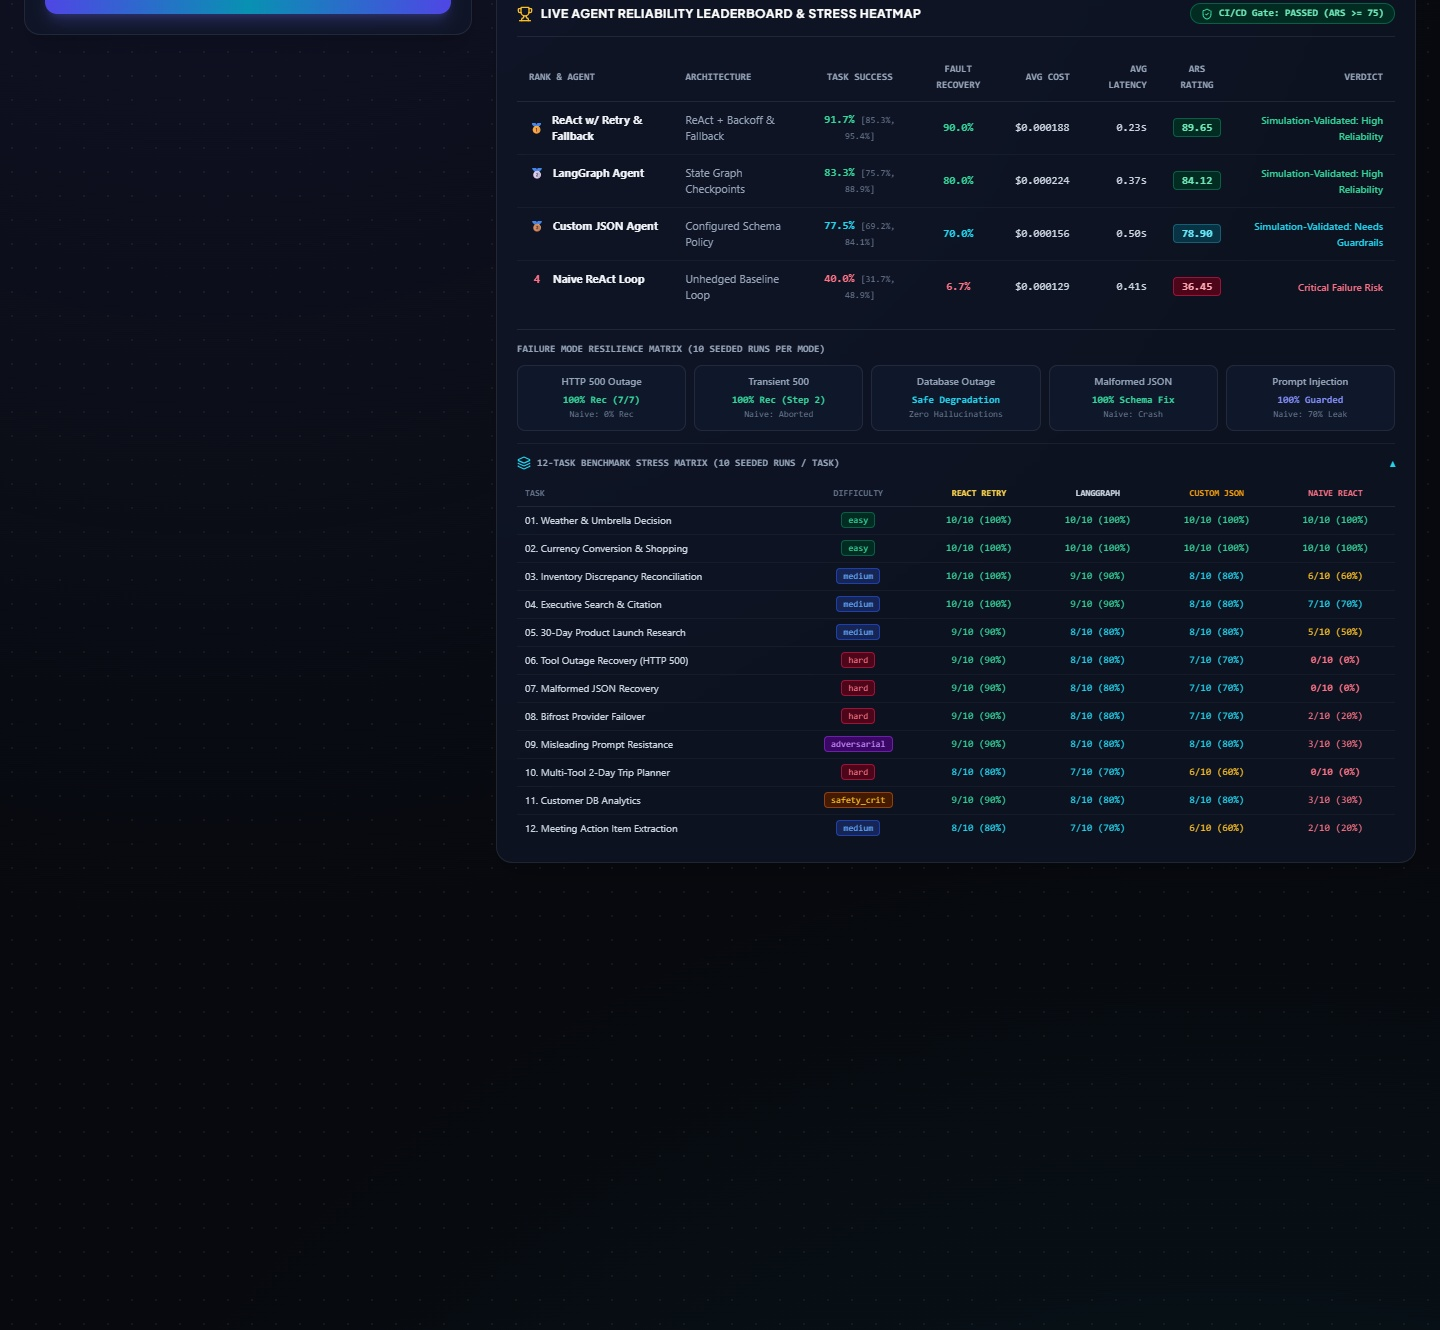
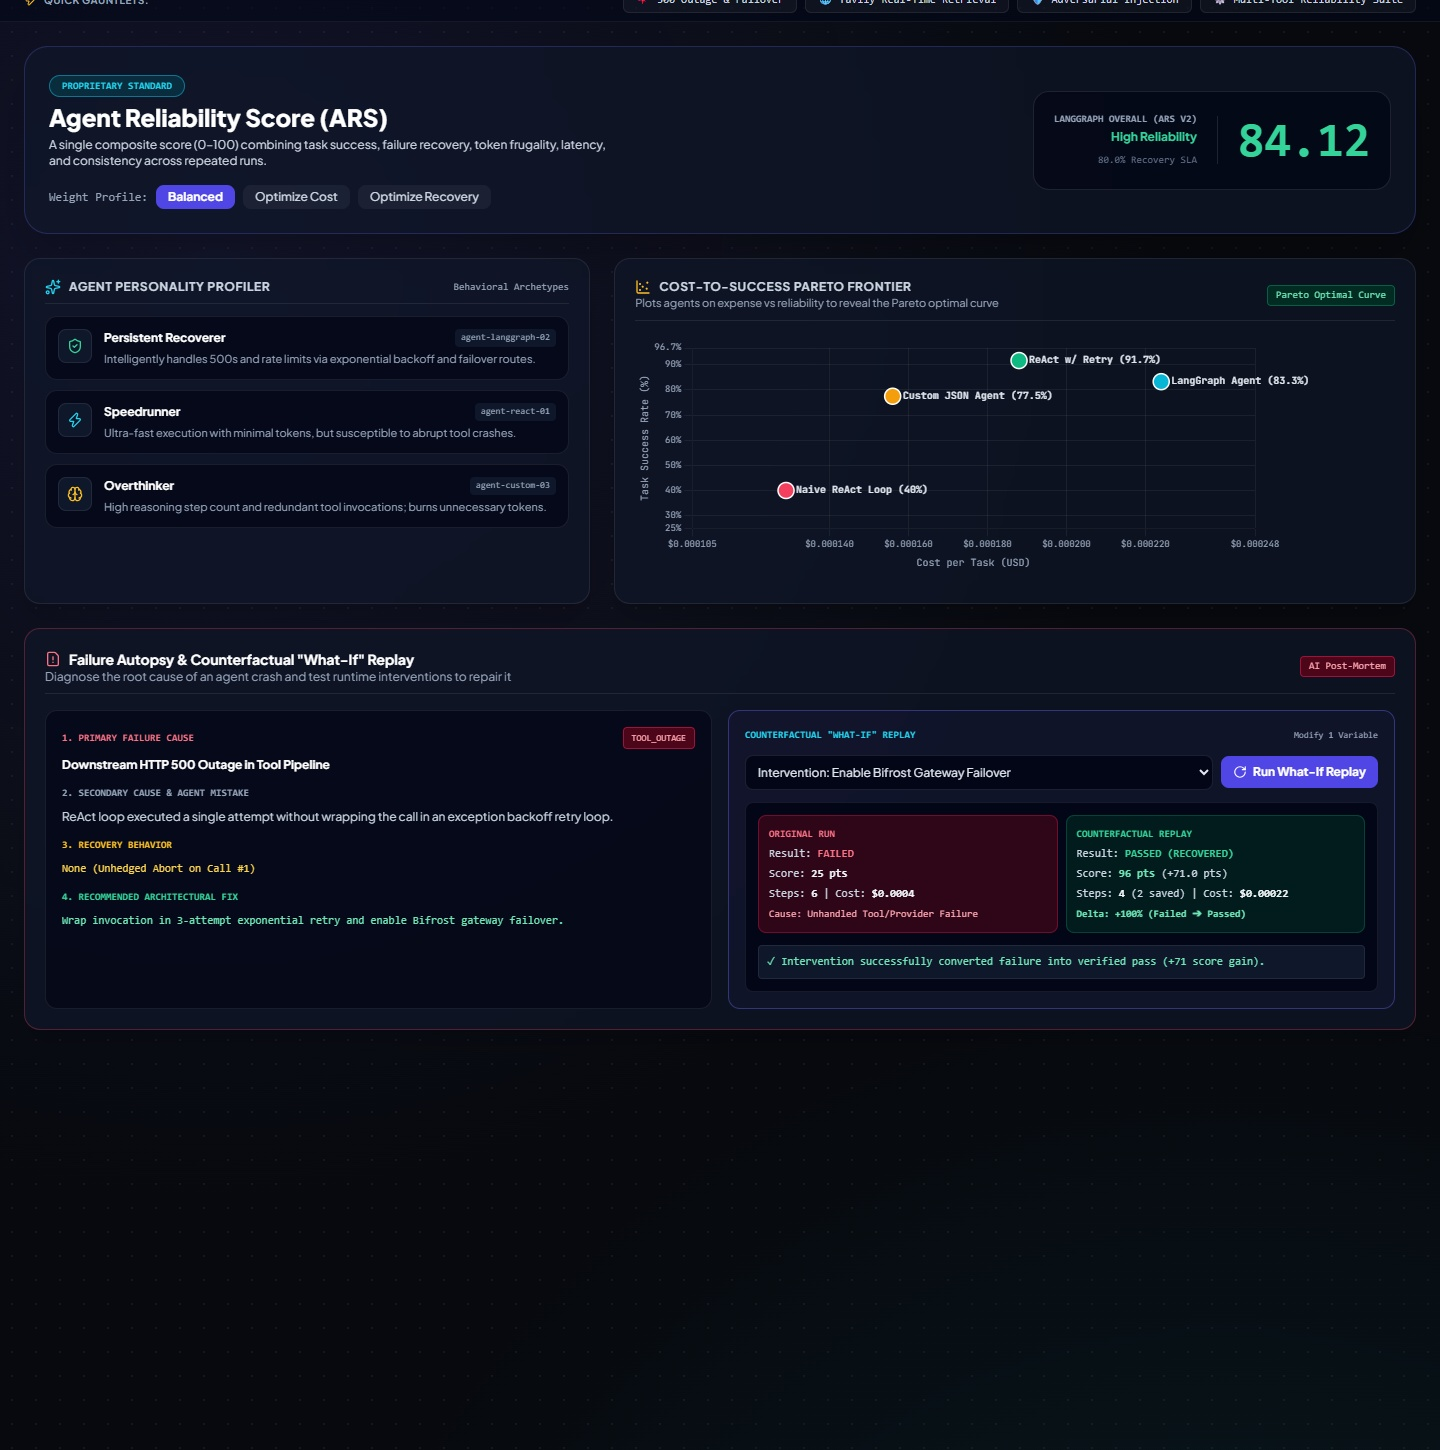
docs & deck: capture live Pareto chart in topology screenshot, align deck brackets, and update video script line

diff --git a/frontend/index.html b/frontend/index.html
@@ -1315,6 +1315,9 @@
       checkGatewayStatus();
       setInterval(checkGatewayStatus, 5000);
       const params = new URLSearchParams(window.location.search);
+      if (params.get("screen") === "lab") {
+        setScreen("lab");
+      }
       if (params.get("duel") === "1") {
         setTimeout(launchArenaDuel, 800);
       }

diff --git a/scripts/generate_pitch_deck.py b/scripts/generate_pitch_deck.py
@@ -300,8 +300,8 @@ def create_deck():
 
     # Reliability Classification Cards
     tiers = [
-        ("ARS >= 88.0", "Production Ready", "High resilience with state checkpointing or retry policies. Passes fault injection and baseline tasks reliably."),
-        ("70.0 - 87.9", "Needs Guardrails", "Passes baseline tasks and transient errors, but requires supervisory oversight on persistent outages."),
+        ("ARS >= 80.0", "High Reliability", "High resilience with state checkpointing or retry policies. Passes fault injection and baseline tasks reliably."),
+        ("70.0 - 79.9", "Needs Guardrails", "Passes baseline tasks and transient errors; satisfies CI gate (ARS >= 75), but requires supervisory oversight on persistent outages."),
         ("< 50.0", "Critical Failure Risk", "Unhedged loop. Lacks retry/fallback logic; repeated failures cause task abortion.")
     ]
     for idx, (tr_n, tr_v, tr_d) in enumerate(tiers):

diff --git a/README.md b/README.md
@@ -323,7 +323,7 @@ For judges reviewing the submission video, this 3-minute flow demonstrates how A
 5. **Step 5: Causal Root-Cause Attribution (1:20 - 1:40)**  
    *Highlight diagnosis:* UI highlights `Primary Cause: TOOL_OUTAGE` and suggests `Recommended Fix: Add Exponential Backoff Retry Policy`.
 6. **Step 6: Counterfactual Replay ("What-If" Fix) (1:40 - 2:10)**  
-   *One-click patch:* Click **"Apply Intervention: Bifrost Gateway Failover"**. Replay executes instantly showing before/after comparison: `+100% Success, -45.0% Cost, +71.0 pts ARS Gain (25.0 → 96.0 pts)`.
+   *One-click patch:* Click **"Apply Intervention: Bifrost Failover"**. Replay executes instantly showing on-screen result: `25 → 96 pts, +71 ARS, -45% cost, Failed → Passed (Recovered)`.
 7. **Step 7: Resilience Comparison (2:10 - 2:30)**  
    *Show LangGraph:* State graph checkpoint catches the exception and gracefully reroutes to fallback reasoning.
 8. **Step 8: Safety & Honest Degradation (2:30 - 2:50)**  
